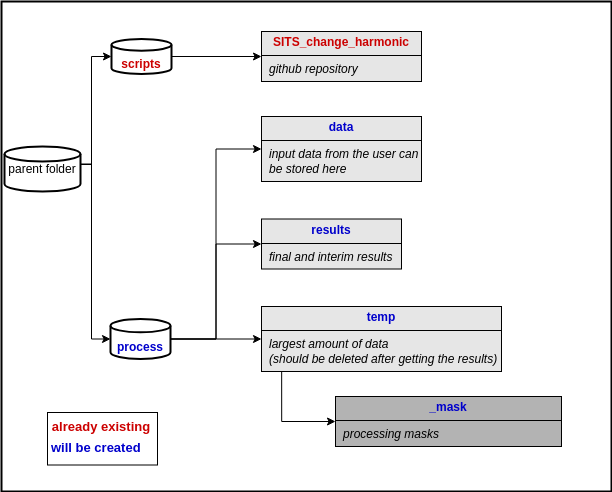
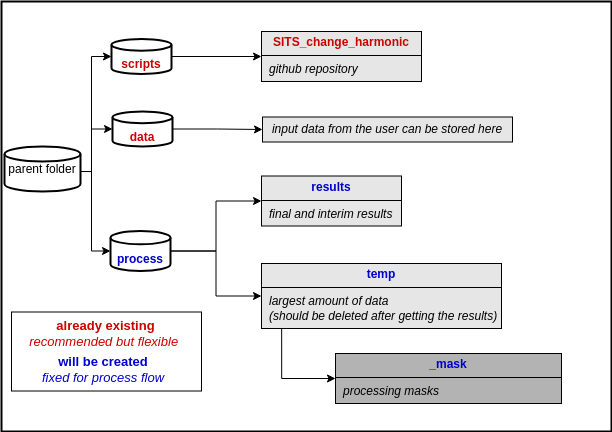
adjusted readme and parameter explainations

diff --git a/harmonic_main.py b/harmonic_main.py
@@ -14,8 +14,8 @@ params = {
     #########################
     #########Basics##########
     #########################
-    "project_name": "project_name",
-    "aoi": "/path/to/aoi.shp",
+    "project_name": "xhain_20240731_prct_advancedharmonic_thresholdM1", #Project Name that will be the name of output folder in temp & result subfolder
+    "aoi": "/uge_mount/FORCE/new_struc/process/data/xhain/xhain_2023.shp", #Define Area of Interest as Shapefile
 
     #TimeSeriesStack (TSS) --> Real Spectral Values
     "TSS_Sensors": "SEN2A SEN2B", #LND04 LND05 LND07 LND08 LND09 SEN2A SEN2B, # Choose between Input Sensors
@@ -37,7 +37,7 @@ params = {
     "intp10_period": True, # Calculate the 10th Perzentil for periods specified below
     "mosaic": True, # Mosaic the final results?
 
-    "times_std": -1.5, # Threshold for ChangeDetection (std * -x | cv * -x)
+    "times_std": -1, # Threshold for ChangeDetection (std * -x | cv * -x)
     # Define start and end dates and period length
     "start_date": "2018-01", # Starting Date for Period Calculation
     "end_date": "2024-12", # End Date for Period Calculation
@@ -46,8 +46,8 @@ params = {
 
 advanced_params = {
     #BASIC
-    "process_folder": "/path/to/process_folder/",
-    "force_dir": "/force",
+    "process_folder": "/uge_mount/FORCE/new_struc/process/", # Folder where Data and Results will be processed (will be created if not existing)
+    "force_dir": "/force", # mount directory for FORCE-Datacube - should look like /force_mount/FORCE/C1/L2/..
     #"tsi_lst" : glob(".../tiles_tsi/X*/2017-2019_001-365_HL_UDF_SEN2L_PYP.tif"),
     #"tss_lst" : glob(".../tiles_tss/X*/2018-2023_001-365_HL_UDF_SEN2L_PYP.tif"),
     "tsi_lst": None, #tss & tsi will be automatically used from project_folder structure

diff --git a/harmonic_visualize.py b/harmonic_visualize.py
@@ -13,14 +13,14 @@ import datetime
 import os
 from SITS_change_harmonic.utils.residuals_utils import extract_data, plot_timeseries
 
-raster_tsi = "/.../.../tiles_tsi/X0068_Y0038/2017-2019_001-365_HL_UDF_SEN2L_PYP.tif"
-raster_tss = "/.../.../tiles_tss/X0068_Y0038/2015-2024_001-365_HL_UDF_SEN2L_PYP.tif"
-points = gpd.read_file("/.../.../aoi_points.shp")
-save_fig = "/.../.../output_figures"
+raster_tsi = "/uge_mount/FORCE/new_struc/process/temp/xhain_20240731_prct_advancedharmonic_thresholdM1/tiles_tsi/X0069_Y0043/2016-2018_001-365_HL_UDF_SEN2L_PYP.tif"
+raster_tss = "/uge_mount/FORCE/new_struc/process/temp/xhain_20240731_prct_advancedharmonic_thresholdM1/tiles_tss/X0069_Y0043/2018-2024_001-365_HL_UDF_SEN2L_PYP.tif"
+points = gpd.read_file("/uge_mount/FORCE/new_struc/process/data/xhain/test_points.shp")
+save_fig = "/uge_mount/FORCE/new_struc/process/temp/xhain_20240731_prct_advancedharmonic_thresholdM1/output_figures"
 threshold = "std" # number[0,1,2,...] or "std"
-id_column = "ProbeBNr"
+id_column = "Id"
 title = "Sentinel, Ref: Sentinel 2016-2018, Point ID: "
-ylab = "Vitalitätsindex CCCI"
+ylab = "Vitalitätsindex DSWI"
 
 
 

diff --git a/force/force_harmonic_utils.py b/force/force_harmonic_utils.py
@@ -153,10 +153,10 @@ def force_harmonic(project_name,aoi,TSS_Sensors,TSS_DATE_RANGE,TSI_Sensors,TSI_D
           f"force-higher-level {temp_folder}/{project_name}/dswi_harmonic_tss.prm"
 
     subprocess.run(['sudo', 'chmod', '-R', '777', f"{temp_folder}"])
-    # if hold == True:
-    #     subprocess.run(['xterm', '-hold', '-e', cmd])
-    # else:
-    #     subprocess.run(['xterm', '-e', cmd])
+    if hold == True:
+        subprocess.run(['xterm', '-hold', '-e', cmd])
+    else:
+        subprocess.run(['xterm', '-e', cmd])
 
     subprocess.run(['sudo', 'chmod', '-R', '777', f"{temp_folder}/{project_name}"])
     #analysis_tsi

diff --git a/utils/residuals_utils.py b/utils/residuals_utils.py
@@ -213,7 +213,7 @@ def plot_timeseries(tsi_time_series, tss_time_series, threshold, points, with_st
     plt.figure(figsize=(10, 5))
     # Plot the TSI and TSS time series data
     start_date = datetime.datetime(2018, 1, 1).date()
-    end_date = datetime.datetime(2023, 12, 31).date()
+    end_date = datetime.datetime(2024, 12, 31).date()
 
     tsi_time_series = [ts for ts in tsi_time_series if start_date <= ts[0] <= end_date]
     tss_time_series = [ts for ts in tss_time_series if start_date <= ts[0] <= end_date]
